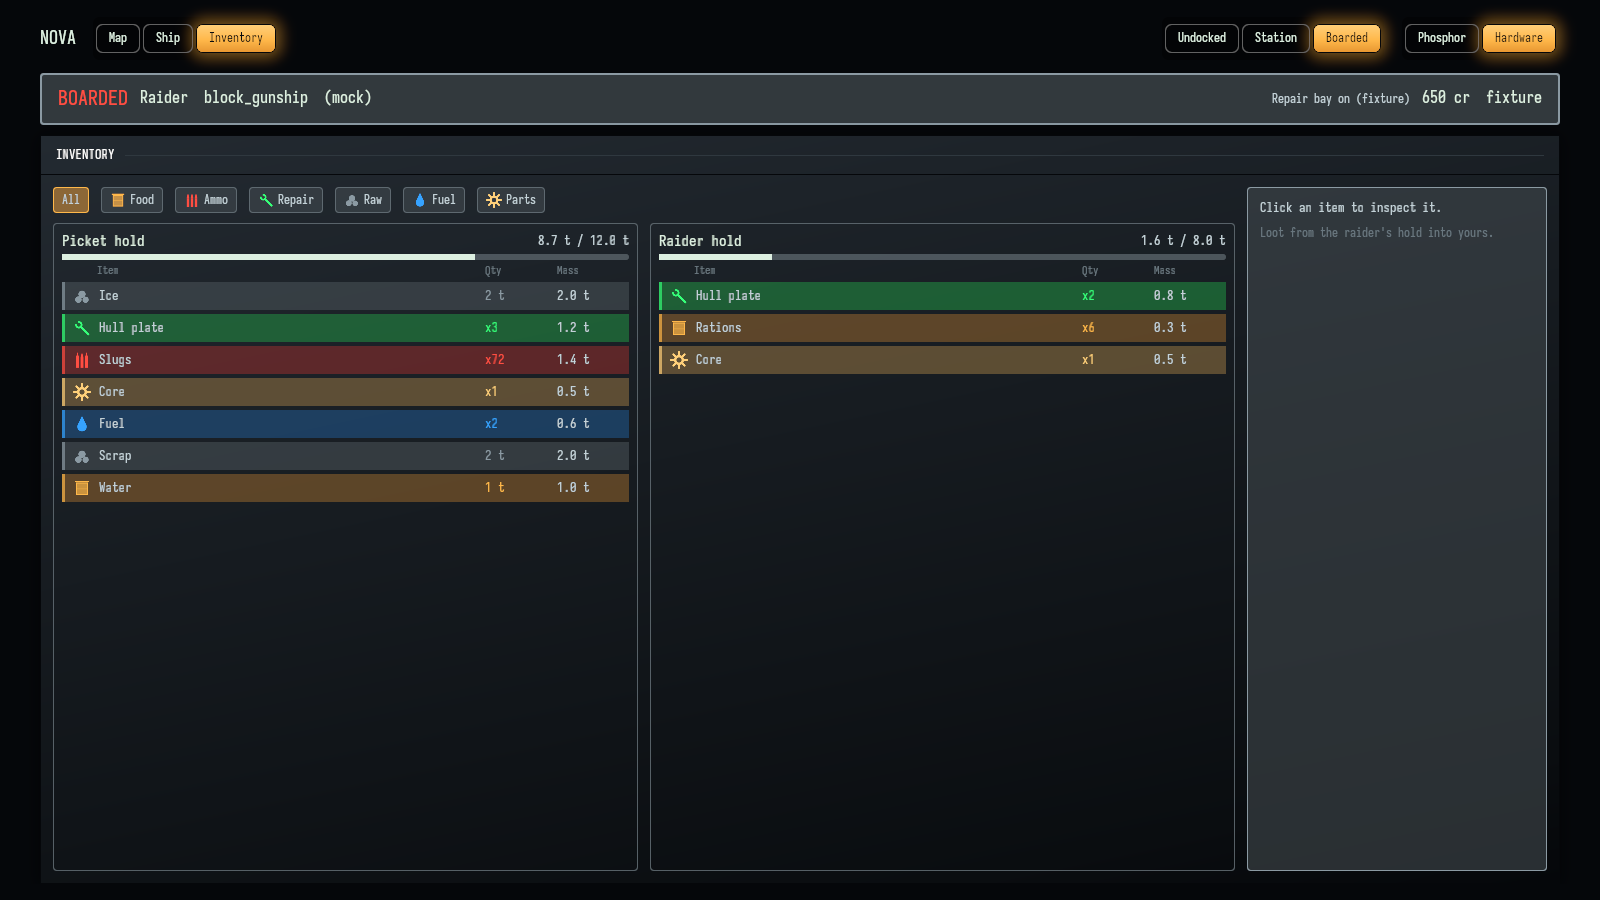
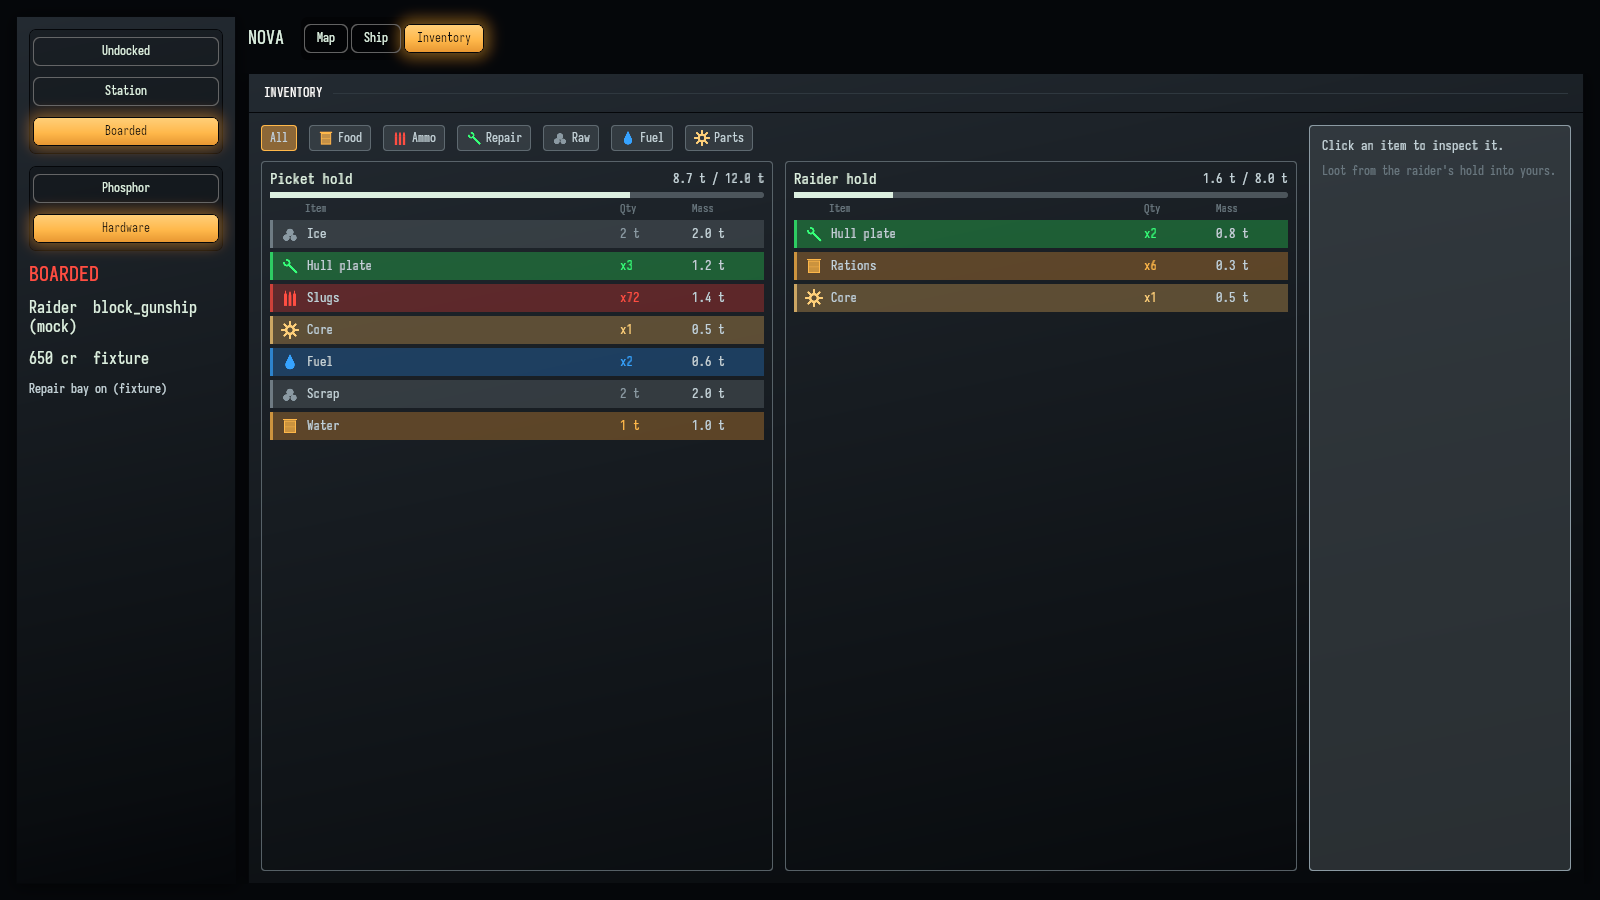
wip: give the inventory inspector the 80/20 detail share

Changed region(s): [[0.0, 0.0, 1.0, 0.9956]]

diff --git a/examples/playable/ui_app_variants.rs b/examples/playable/ui_app_variants.rs
@@ -73,14 +73,15 @@
 //!   double click trades once, the interface cue of each control, the equal
 //!   store columns, the rows, filters and weight bars, the map detail
 //!   panel's share and contents, the ship panel's share or narrow height,
-//!   description and Prev/Next, the map and ship footer's zones, input
-//!   hints and live summary, that a map selection respawns no map node, that
-//!   a ship step respawns no ship node outside the repair slot, that
-//!   a selection, a quantity change or a refused Confirm respawns no
-//!   inventory or rail node, that a closed deal gives the keyboard back, the
-//!   rail's width, place and status, the 3D repaint, that the simulation
-//!   never advances and that no input reaches the ship. Repeat at a mid and
-//!   a narrow window size, scroll a short window, then exit.
+//!   description and Prev/Next, the inspector's share or narrow height, the
+//!   map and ship footer's zones, input hints and live summary, that a map
+//!   selection respawns no map node, that a ship step respawns no ship node
+//!   outside the repair slot, that a selection, a quantity change or a
+//!   refused Confirm respawns no inventory or rail node, that a closed deal
+//!   gives the keyboard back, the rail's width, place and status, the 3D
+//!   repaint, that the simulation never advances and that no input reaches
+//!   the ship. Repeat at a mid and a narrow window size, scroll a short
+//!   window, then exit.
 //! - `NOVA_AUTOPILOT=1 NOVA_CAPTURE=1 NOVA_CAPTURE_DIR=<dir>`: the same walk,
 //!   plus a frame of every view.
 
@@ -1189,8 +1190,8 @@ fn control_row(justify: JustifyContent) -> Node {
     }
 }
 
-/// Share of a split row the map's detail panel and the wide ship panel take;
-/// the scene takes the rest.
+/// Share of a split row the map's detail panel, the wide ship panel and the
+/// wide inventory inspector take; the scene or the stores take the rest.
 const DETAIL_SHARE: f32 = 20.0;
 
 /// The map: the scene with the contact detail panel beside it at every
@@ -1326,8 +1327,6 @@ fn input_hint(row: &mut ChildSpawnerCommands, (input, action): &(&str, &str)) {
         });
 }
 
-/// Width of the inventory inspector beside its view, in logical px.
-const SIDE_PX: f32 = 300.0;
 /// Height of the ship panel stacked under the ship view, in logical px: the
 /// preview head with the section texts and Prev/Next, and the repair slot.
 const SHIP_PANEL_NARROW_PX: f32 = 240.0;
@@ -1414,16 +1413,6 @@ fn split(narrow: bool) -> Node {
         column_gap: px(12),
         row_gap: px(12),
         ..default()
-    }
-}
-
-/// A themed side panel: [`SIDE_PX`] wide beside its view, or full width and
-/// `narrow_px` high under it.
-fn side_panel(narrow: bool, narrow_px: f32) -> impl Bundle {
-    if narrow {
-        panel_box(percent(100), px(narrow_px))
-    } else {
-        panel_box(px(SIDE_PX), auto())
     }
 }
 
@@ -4486,13 +4475,17 @@ fn column_node(row_gap: f32) -> Node {
 
 /// The inspector, built once: a hint with nothing selected; the item's icon,
 /// name and category; its facts; and the confirmation in their place while
-/// one is open. [`update_inspector`] fills it.
+/// one is open. Wide, it takes [`DETAIL_SHARE`] of the row beside the stores;
+/// narrow, it is [`INSPECTOR_NARROW_PX`] high under them.
+/// [`update_inspector`] fills it.
 fn inspector(split: &mut ChildSpawnerCommands, icons: &SketchIcons, narrow: bool) {
+    let (width, height) = if narrow {
+        (percent(100), px(INSPECTOR_NARROW_PX))
+    } else {
+        (percent(DETAIL_SHARE), auto())
+    };
     split
-        .spawn((
-            Name::new(INSPECTOR),
-            side_panel(narrow, INSPECTOR_NARROW_PX),
-        ))
+        .spawn((Name::new(INSPECTOR), panel_box(width, height)))
         .with_children(|panel| {
             panel
                 .spawn((InspectorPart::Hint, column_node(10.0)))
@@ -4549,7 +4542,9 @@ fn inspector(split: &mut ChildSpawnerCommands, icons: &SketchIcons, narrow: bool
         });
 }
 
-/// A label on the left and a named value on the right.
+/// A label on the left and a named value on the right. The value wraps at
+/// words: a long stock line such as `4 t in Mock station market` does not fit
+/// one line of the inspector at the mid width.
 fn fact(panel: &mut ChildSpawnerCommands, label: &str, name: &str) {
     panel
         .spawn(control_row(JustifyContent::SpaceBetween))
@@ -4558,7 +4553,7 @@ fn fact(panel: &mut ChildSpawnerCommands, label: &str, name: &str) {
             row.spawn((
                 Name::new(name.to_string()),
                 themed_text("", 13.0, UiColor::Body),
-                TextLayout::new(Justify::Right, LineBreak::NoWrap),
+                TextLayout::new(Justify::Right, LineBreak::WordBoundary),
             ));
         });
 }
@@ -5501,18 +5496,42 @@ fn sketch_script() -> Script {
     script = verdict(script, Ship, Boarded, "hardware");
     script = shot(script, "hardware-ship-boarded");
 
-    // Just over the narrow break: the side panels still sit beside their
-    // views.
+    // Just over the narrow break: the detail panels and the inspector still
+    // sit beside their views, in their share of the row.
     script = resize(script, MID, "mid");
     script = verdict(script, Ship, Boarded, "mid");
     script = switch_context(script, Station);
     script = verdict(script, Ship, Station, "mid");
     script = shot(script, "mid-hardware-ship-station");
-    for view in [Inventory, Map] {
-        script = open(script, view);
-        script = verdict(script, view, Station, "mid");
-        script = shot(script, &format!("mid-hardware-{}-station", view.slug()));
+    script = open(script, Inventory);
+    script = verdict(script, Inventory, Station, "mid");
+    script = shot(script, "mid-hardware-inventory-station");
+    // The narrowest wide inspector holds the water's facts and its deal.
+    script = note_nodes(script);
+    script = select_row(
+        script,
+        "open the water mid",
+        Store::Market,
+        "Water",
+        Some(Deal::Buy),
+    );
+    script = assert_nodes_kept(script, "opening the water mid");
+    script = verdict(script, Inventory, Station, "mid deal");
+    script = shot(script, "mid-hardware-inventory-deal");
+    // Undocked drops the market selection and the deal, so the other
+    // contexts and the narrow walk start from the empty inspector.
+    for (context, slug) in [
+        (Undocked, "mid-hardware-inventory-undocked"),
+        (Boarded, "mid-hardware-inventory-boarded"),
+    ] {
+        script = switch_context(script, context);
+        script = verdict(script, Inventory, context, "mid");
+        script = shot(script, slug);
     }
+    script = switch_context(script, Station);
+    script = open(script, Map);
+    script = verdict(script, Map, Station, "mid");
+    script = shot(script, "mid-hardware-map-station");
 
     script = resize(script, NARROW, "narrow");
     for view in [Map, Ship, Inventory] {
@@ -8516,14 +8535,33 @@ fn assert_holds(world: &mut World, context: SketchContext, when: &str) {
     );
 }
 
-/// The inspector shows the inspected item's icon, name and category, then
-/// either its facts, or the open confirmation of the deal the context allows
-/// on it; with nothing inspected, only a hint.
+/// The inspector takes [`DETAIL_SHARE`] of its row beside the stores, or
+/// [`INSPECTOR_NARROW_PX`] under them when narrow, inside the row. It shows
+/// the inspected item's icon, name and category, then either its facts, or
+/// the open confirmation of the deal the context allows on it; with nothing
+/// inspected, only a hint.
 #[cfg(feature = "debug")]
 fn assert_inspector(world: &mut World, context: SketchContext, when: &str) {
+    let panel = ui_node_rect(world, INSPECTOR)
+        .unwrap_or_else(|| panic!("the inspector must be shown ({when})"));
+    let row = parent_rect(world, INSPECTOR);
+    let stores = ui_node_rect(world, STORE_COLUMN_PARTNER).expect("the partner column is laid out");
+    let placed = if window_rect(world).width() < NARROW_BELOW_PX {
+        (panel.width() - row.width()).abs() < 1.0
+            && (panel.height() - INSPECTOR_NARROW_PX).abs() < 1.0
+            && (panel.max.y - row.max.y).abs() < 1.0
+            && stores.max.y <= panel.min.y
+    } else {
+        (panel.width() - row.width() * DETAIL_SHARE / 100.0).abs() < 1.0
+            && (panel.max.x - row.max.x).abs() < 1.0
+            && stores.max.x <= panel.min.x
+            && (panel.min.y - row.min.y).abs() < 1.0
+            && (panel.max.y - row.max.y).abs() < 1.0
+    };
     assert!(
-        ui_node_rect(world, INSPECTOR).is_some(),
-        "the inspector must be shown ({when})"
+        placed && inside(panel, row),
+        "the inspector {panel:?} must take {DETAIL_SHARE}% of the row {row:?} beside the \
+         stores {stores:?}, or {INSPECTOR_NARROW_PX} px under them when narrow ({when})"
     );
     let inspected = world.resource::<Inspected>().0;
     let draft = world.resource::<Draft>().0;

diff --git a/tasks/20260824-125943/UI-APP-VARIANTS.md b/tasks/20260824-125943/UI-APP-VARIANTS.md
@@ -85,13 +85,15 @@ beside `widget_zoo`.
   with fixture prices and no weight bar. Boarded, the raider's hold shows
   with its own weight bar. The picket's hold takes the left half and the
   other store the right half in every context; undocked the right half
-  stays empty, so a context switch does not resize the hold.
+  stays empty, so a context switch does not resize the hold. The stores
+  take the left four fifths of the row and the inspector the right fifth,
+  and the inspector sits 350 px high under them when narrow.
   Every line is one fixed-height row with a kind icon, name, quantity and
   mass.
 - **Inspector**: click a row to select it. It shows the kind icon, name,
   category, unit mass, stock in that store, and the fixture price, or
-  `No price` where no deal is allowed. The facts stay while a deal is open,
-  and the deal's controls show below them.
+  `No price` where no deal is allowed. A long fact wraps at words. The
+  facts stay while a deal is open, and the deal's controls show below them.
 - **Deals**: a row click opens the one deal the context allows on it at one
   unit: Buy on a market item and Sell on an own item at the station (paid),
   Loot on a raider item when boarded (free). Own cargo has no deal when
@@ -124,14 +126,14 @@ beside `widget_zoo`.
 ## Frames
 
 Captured under Xvfb with lavapipe by the harnessed walk. Desktop is
-1600x900, mid is 1120x820, narrow is 720x1000. Frames are in
+1600x900, mid is 1352x820, narrow is 1024x900. Frames are in
 `ui-app-variants/`, with the prefix `ui_app_variants-`.
 
 | View | Phosphor, desktop | Hardware, desktop | Narrow |
 | --- | --- | --- | --- |
-| Map | `phosphor-map` (on `HOST-1`), `phosphor-map-recentered` (on `AST-2`) | `hardware-map-station` | `narrow-hardware-map-station`, `narrow-phosphor-map-undocked` |
+| Map | `phosphor-map` (on `HOST-1`), `phosphor-map-recentered` (on `AST-2`) | `hardware-map-station`, `mid-hardware-map-station` | `narrow-hardware-map-station`, `narrow-phosphor-map-undocked` |
 | Ship | `phosphor-ship` (on `PDC-1`), `phosphor-ship-station` (after repair) | `hardware-ship-station`, `hardware-ship-boarded`, `mid-hardware-ship-station` | `narrow-hardware-ship-station`, `narrow-phosphor-ship-boarded`, `narrow-phosphor-ship-undocked` |
-| Inventory | `phosphor-inventory` (inspector), `phosphor-inventory-station` (refused buy), `phosphor-inventory-boarded` (after loot) | `hardware-inventory-station`, `hardware-inventory-boarded` | `narrow-hardware-inventory-station`, `narrow-hardware-inventory-deal` (water deal), `short-hardware-inventory-deal` (720x760, scrolled to Confirm), `narrow-hardware-inventory-boarded`, `narrow-phosphor-inventory-boarded` |
+| Inventory | `phosphor-inventory` (inspector), `phosphor-inventory-station` (refused buy), `phosphor-inventory-boarded` (after loot) | `hardware-inventory-station`, `hardware-inventory-boarded`, `mid-hardware-inventory-station`, `mid-hardware-inventory-deal` (water deal), `mid-hardware-inventory-undocked`, `mid-hardware-inventory-boarded` | `narrow-hardware-inventory-station`, `narrow-hardware-inventory-deal` (water deal), `short-hardware-inventory-deal` (1024x600, scrolled to Confirm), `narrow-hardware-inventory-boarded`, `narrow-phosphor-inventory-boarded` |
 
 ## What the harnessed walk proves
 
@@ -200,12 +202,15 @@ Captured under Xvfb with lavapipe by the harnessed walk. Desktop is
   contexts (`not at a station`, `not boarded`, `repair needs a station`);
 - every refusal leaves cargo, credits, condition and the bay unchanged;
 - the theme flip repaints the 3D materials in place;
-- at 1120 px the ship panel and inspector stay beside their views, and at
-  720 px they stack; no node leaves the window or its parent's box;
-- in a 720x760 window the ship panel starts below the window, and the wheel
+- at 1352 px the ship panel and inspector take a fifth of their rows beside
+  their views, and at 1024 px they stack; no node leaves the window or its
+  parent's box;
+- at 1352 px a water deal opens in the inspector with every inventory node
+  kept, and its facts and Confirm fit the panel;
+- in a 1024x600 window the ship panel starts below the window, and the wheel
   over the context line scrolls the page until the panel is in view;
-- at 720 px a water deal shows Confirm under the facts inside the 350 px
-  inspector, and in a 720x760 window the wheel over the context line
+- at 1024 px a water deal shows Confirm under the facts inside the 350 px
+  inspector, and in a 1024x600 window the wheel over the context line
   scrolls the page until Confirm is in view;
 - after the scenario loads, `Time<Virtual>` and `Time<Physics>` stay paused,
   no fixed step runs, and no contact moves, through every step, an interface
